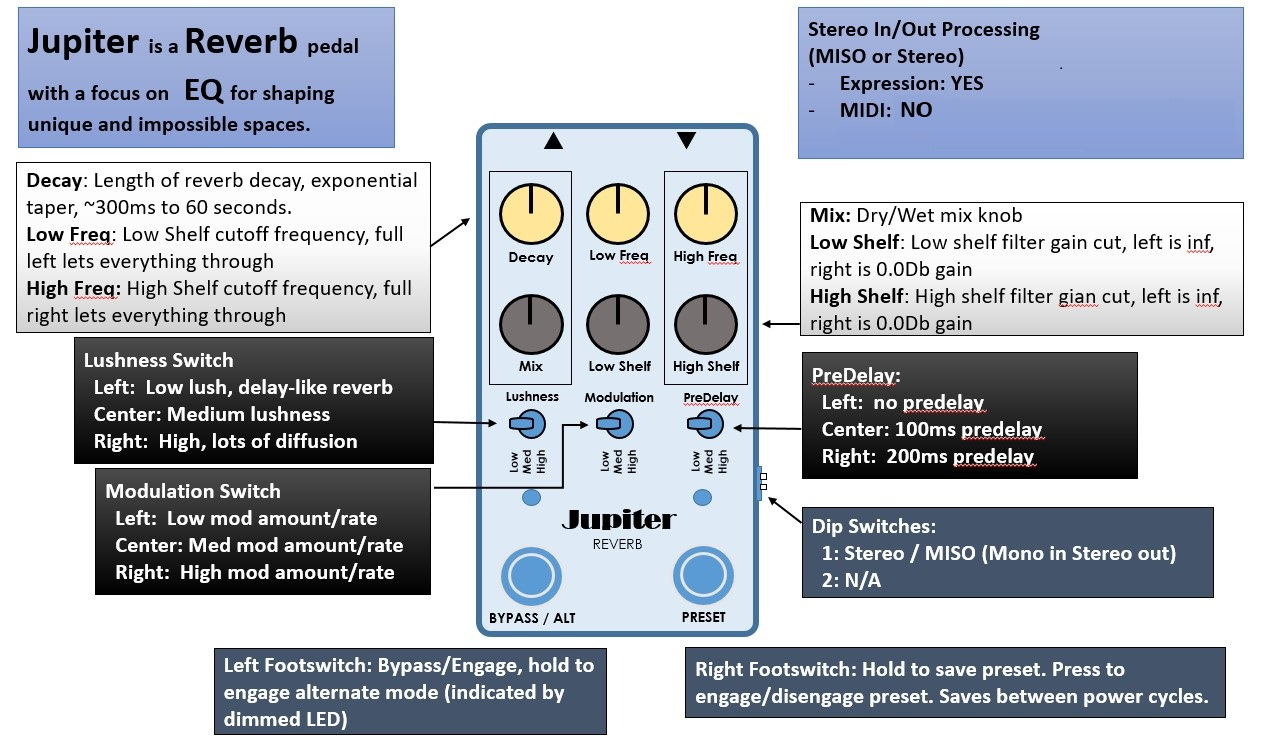
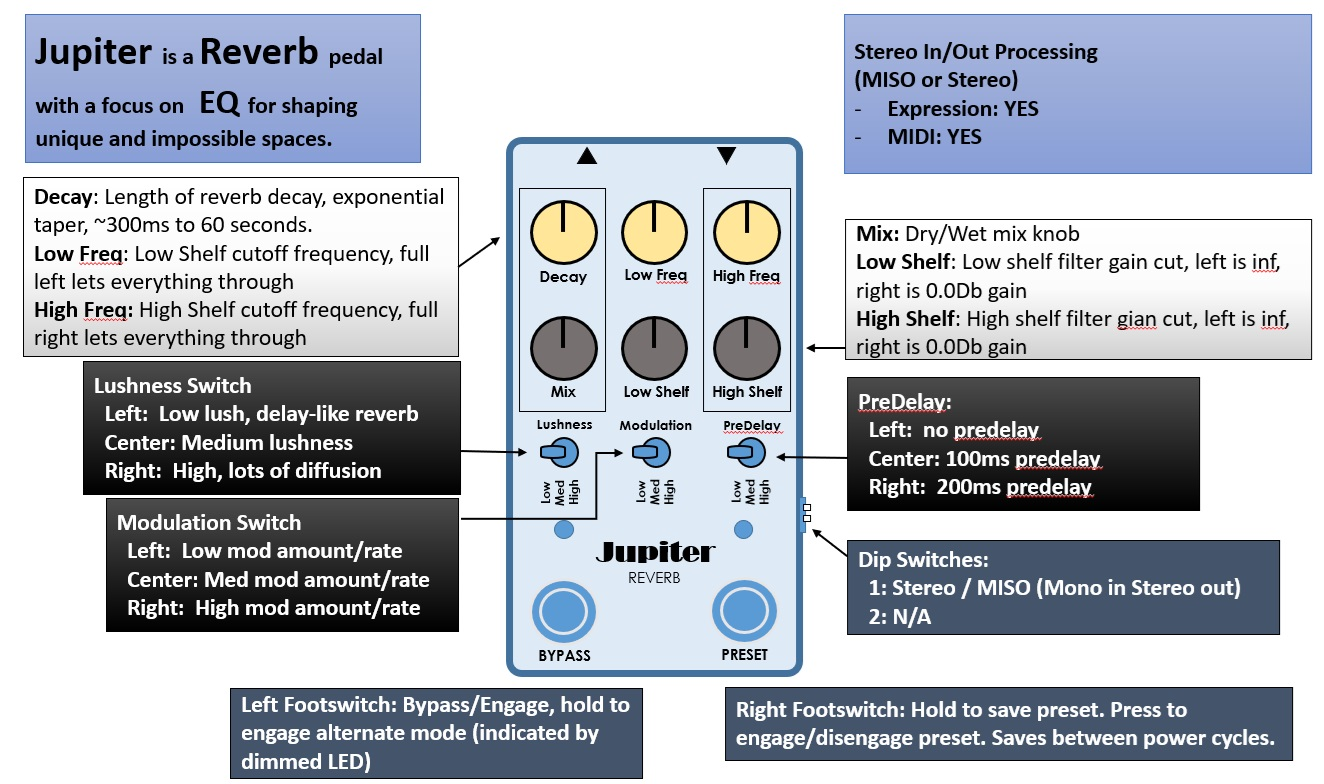
Updated Jupiter readme and infographic

Changed region(s): [[0.0, 0.0, 1.0, 0.9986]]

diff --git a/software/Jupiter/README.md b/software/Jupiter/README.md
@@ -42,6 +42,16 @@ but more EQ controls are exposed to the user, specifically the post reverb low a
 * Currently, the expression input requires the full range of the expression pedal, in order to detect Up/Down positions. You can sometimes trim the expression pedal to not use the full range, so adjust the trim as necessary.<br>
   Also, some expression pedals have a "Standard" or "Alternate/Other" mode. Funbox should work on the "Standard" mode.<br>
 
+### MIDI Reference
+
+| Control | MIDI CC | Value |
+| --- | --- | --- |
+| Knob 1 | 14 | 0- 127 |
+| Knob 2 | 15 | 0- 127 |
+| Knob 3 | 16 | 0- 127 |
+| Knob 4 | 17 | 0- 127 |
+| Knob 5 | 18 | 0- 127 |
+| Knob 6 | 19 | 0- 127 |
 
 ## Build
 
